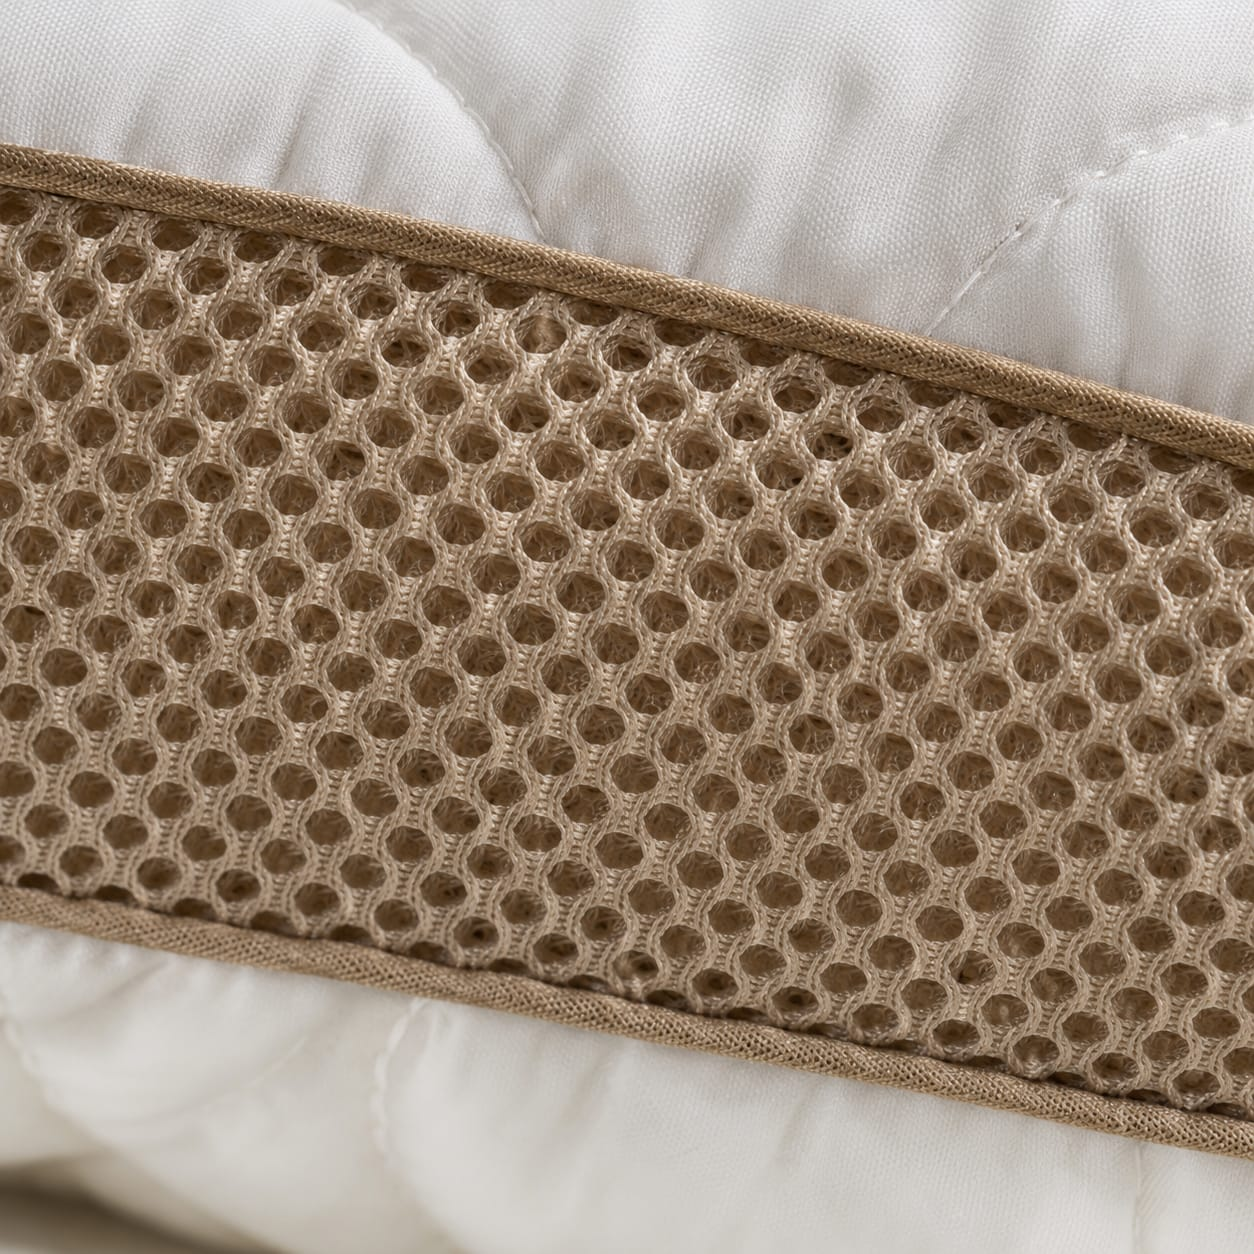
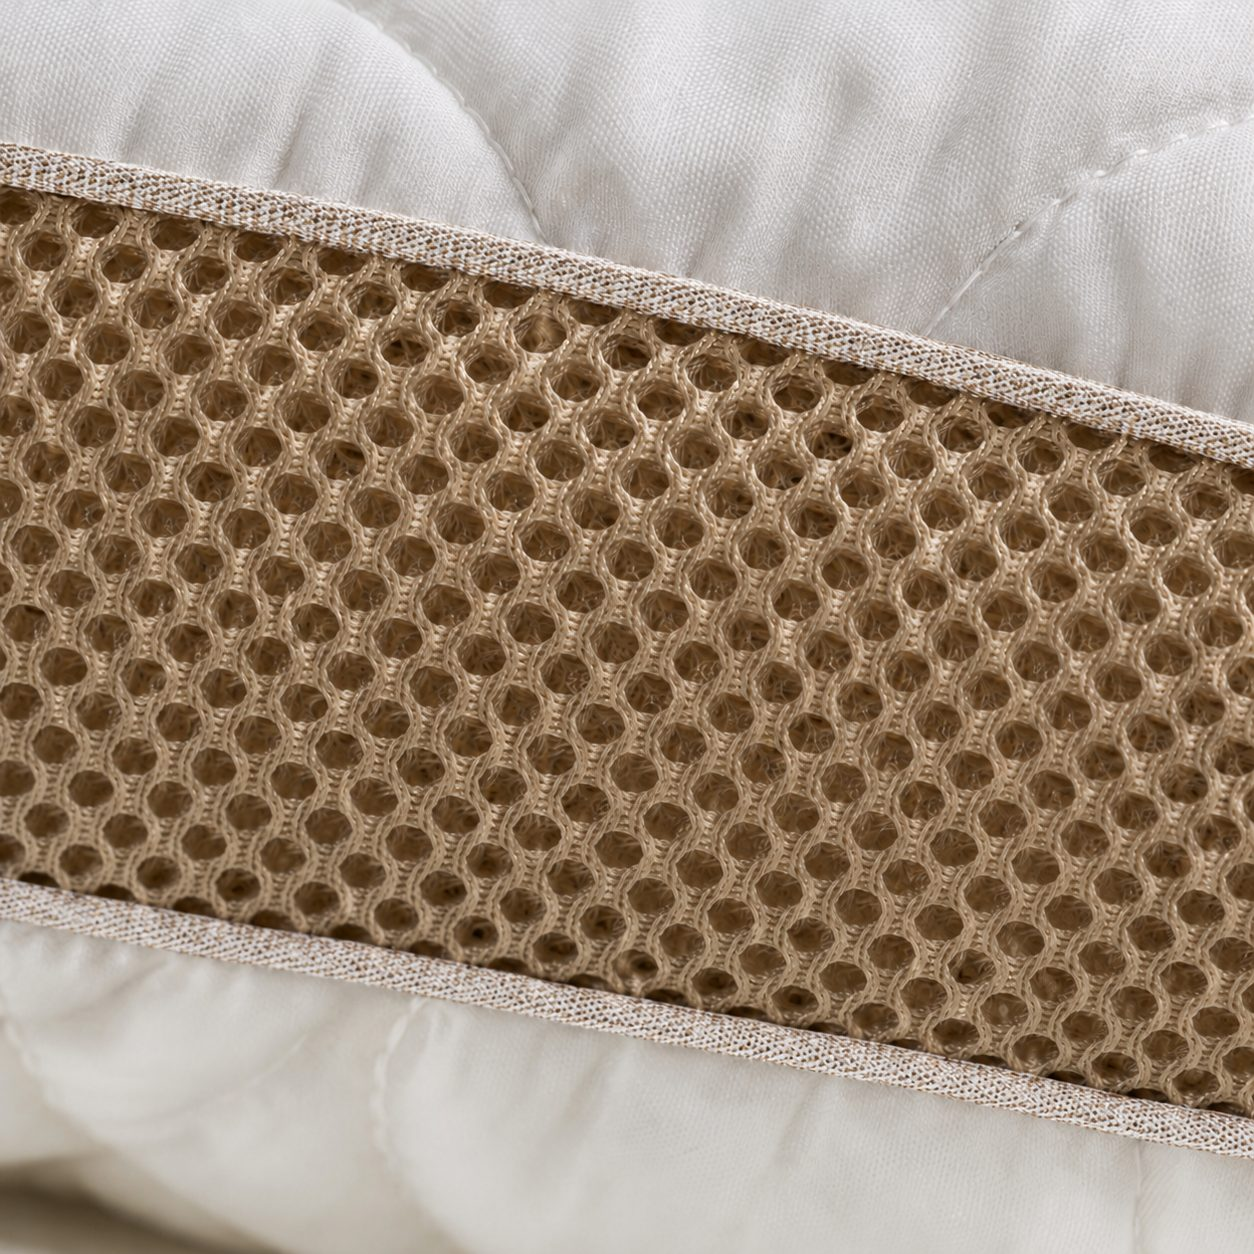
22335: fin paspulni trak + svetlejsi panel se na slotih 2, 4, 5, 6

diff --git a/vzglavnik-bamboo-exclusive.html b/vzglavnik-bamboo-exclusive.html
@@ -21,6 +21,6 @@
   @media (prefers-color-scheme: dark) { :root { --bg:#191713; --ink:#ece7df; --muted:#97907f; } figure { background:#221f1a; box-shadow:0 1px 3px rgba(0,0,0,.4);} }
 </style></head>
 <body><header><div class="eyebrow">Vitapur · Vzglavniki</div><h1>Bamboo Exclusive — klasični</h1><p>SKU 22335 · 50×70 cm, višina 15 cm · školjkasto prešitje, bambusova mikrovlakna, tan paspula + tan 3D mesh letev, khaki vogalni panel</p><a class="back" href="kat-vzglavniki.html">&larr; Vsi vzglavniki</a></header>
-<div class="grid"><figure><a href="img/vzglavnik-bamboo-exclusive/01_entry.jpg?v=20260728d" target="_blank"><img src="img/vzglavnik-bamboo-exclusive/01_entry.jpg?v=20260728d" alt="1 · ENTRY — Naslovni hero" loading="lazy"></a><figcaption><span class="num">01<span class="hero-tag">MAIN</span></span><div class="cap">1 · ENTRY — Naslovni hero</div></figcaption></figure><figure><a href="img/vzglavnik-bamboo-exclusive/02_polnilo.jpg" target="_blank"><img src="img/vzglavnik-bamboo-exclusive/02_polnilo.jpg" alt="2 · POLNILO — Bambusova mikrovlakna" loading="lazy"></a><figcaption><span class="num">02</span><div class="cap">2 · POLNILO — Bambusova mikrovlakna</div></figcaption></figure><figure><a href="img/vzglavnik-bamboo-exclusive/03_prevleka.jpg?v=20260728d" target="_blank"><img src="img/vzglavnik-bamboo-exclusive/03_prevleka.jpg?v=20260728d" alt="3 · PREVLEKA — Školjkasto prešitje + vogalni panel" loading="lazy"></a><figcaption><span class="num">03</span><div class="cap">3 · PREVLEKA — Školjkasto prešitje + vogalni panel</div></figcaption></figure><figure><a href="img/vzglavnik-bamboo-exclusive/04_profil.jpg" target="_blank"><img src="img/vzglavnik-bamboo-exclusive/04_profil.jpg" alt="4 · PROFIL — Boksan profil ~15 cm" loading="lazy"></a><figcaption><span class="num">04</span><div class="cap">4 · PROFIL — Boksan profil ~15 cm</div></figcaption></figure><figure><a href="img/vzglavnik-bamboo-exclusive/05_tehnologija.jpg" target="_blank"><img src="img/vzglavnik-bamboo-exclusive/05_tehnologija.jpg" alt="5 · TEHNOLOGIJA — Tan 3D zračni mesh (makro)" loading="lazy"></a><figcaption><span class="num">05</span><div class="cap">5 · TEHNOLOGIJA — Tan 3D zračni mesh (makro)</div></figcaption></figure><figure><a href="img/vzglavnik-bamboo-exclusive/06_ljudje.jpg" target="_blank"><img src="img/vzglavnik-bamboo-exclusive/06_ljudje.jpg" alt="6 · LJUDJE — Življenjski slog" loading="lazy"></a><figcaption><span class="num">06</span><div class="cap">6 · LJUDJE — Življenjski slog</div></figcaption></figure></div>
+<div class="grid"><figure><a href="img/vzglavnik-bamboo-exclusive/01_entry.jpg?v=20260728d" target="_blank"><img src="img/vzglavnik-bamboo-exclusive/01_entry.jpg?v=20260728d" alt="1 · ENTRY — Naslovni hero" loading="lazy"></a><figcaption><span class="num">01<span class="hero-tag">MAIN</span></span><div class="cap">1 · ENTRY — Naslovni hero</div></figcaption></figure><figure><a href="img/vzglavnik-bamboo-exclusive/02_polnilo.jpg?v=20260728d" target="_blank"><img src="img/vzglavnik-bamboo-exclusive/02_polnilo.jpg?v=20260728d" alt="2 · POLNILO — Bambusova mikrovlakna" loading="lazy"></a><figcaption><span class="num">02</span><div class="cap">2 · POLNILO — Bambusova mikrovlakna</div></figcaption></figure><figure><a href="img/vzglavnik-bamboo-exclusive/03_prevleka.jpg?v=20260728d" target="_blank"><img src="img/vzglavnik-bamboo-exclusive/03_prevleka.jpg?v=20260728d" alt="3 · PREVLEKA — Školjkasto prešitje + vogalni panel" loading="lazy"></a><figcaption><span class="num">03</span><div class="cap">3 · PREVLEKA — Školjkasto prešitje + vogalni panel</div></figcaption></figure><figure><a href="img/vzglavnik-bamboo-exclusive/04_profil.jpg?v=20260728d" target="_blank"><img src="img/vzglavnik-bamboo-exclusive/04_profil.jpg?v=20260728d" alt="4 · PROFIL — Boksan profil ~15 cm" loading="lazy"></a><figcaption><span class="num">04</span><div class="cap">4 · PROFIL — Boksan profil ~15 cm</div></figcaption></figure><figure><a href="img/vzglavnik-bamboo-exclusive/05_tehnologija.jpg?v=20260728d" target="_blank"><img src="img/vzglavnik-bamboo-exclusive/05_tehnologija.jpg?v=20260728d" alt="5 · TEHNOLOGIJA — Tan 3D zračni mesh (makro)" loading="lazy"></a><figcaption><span class="num">05</span><div class="cap">5 · TEHNOLOGIJA — Tan 3D zračni mesh (makro)</div></figcaption></figure><figure><a href="img/vzglavnik-bamboo-exclusive/06_ljudje.jpg?v=20260728d" target="_blank"><img src="img/vzglavnik-bamboo-exclusive/06_ljudje.jpg?v=20260728d" alt="6 · LJUDJE — Življenjski slog" loading="lazy"></a><figcaption><span class="num">06</span><div class="cap">6 · LJUDJE — Življenjski slog</div></figcaption></figure></div>
 <footer>Koncept galerije — julij 2026 · Vitapur · komentar vpiši pod posamezno sliko</footer><script src="comments.js" defer></script>
 </body></html>
